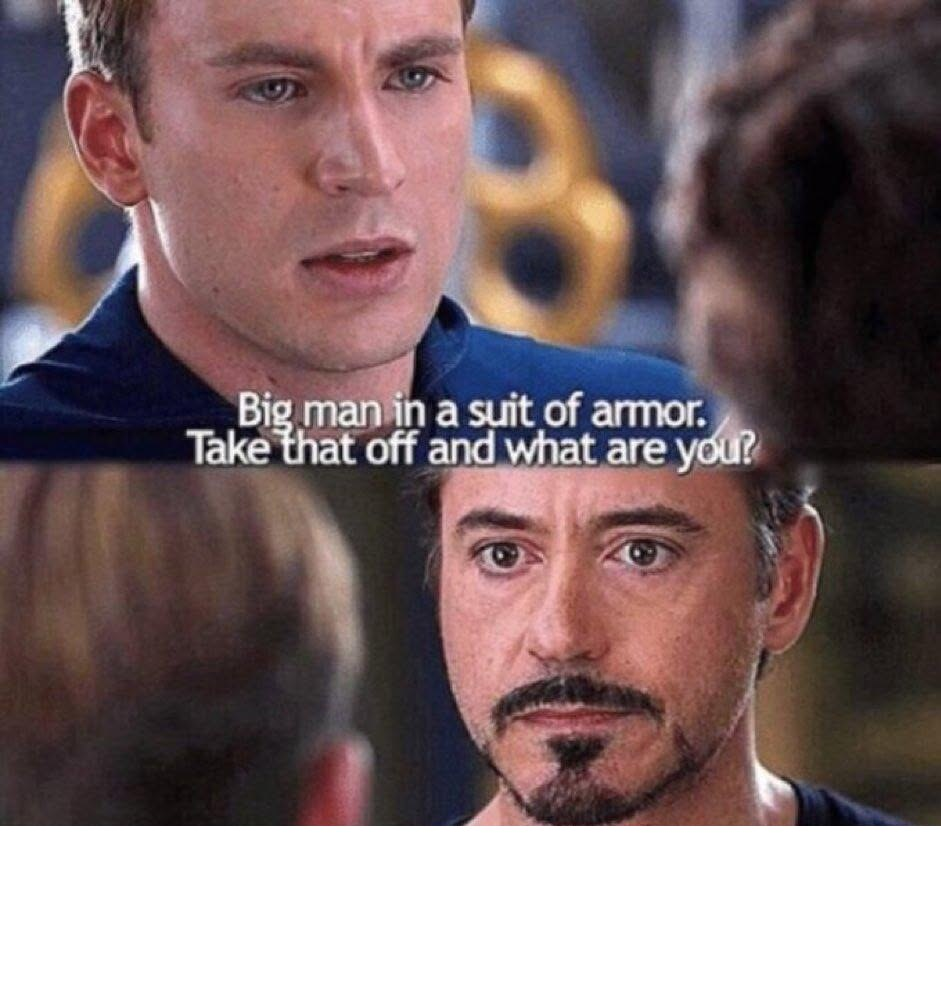
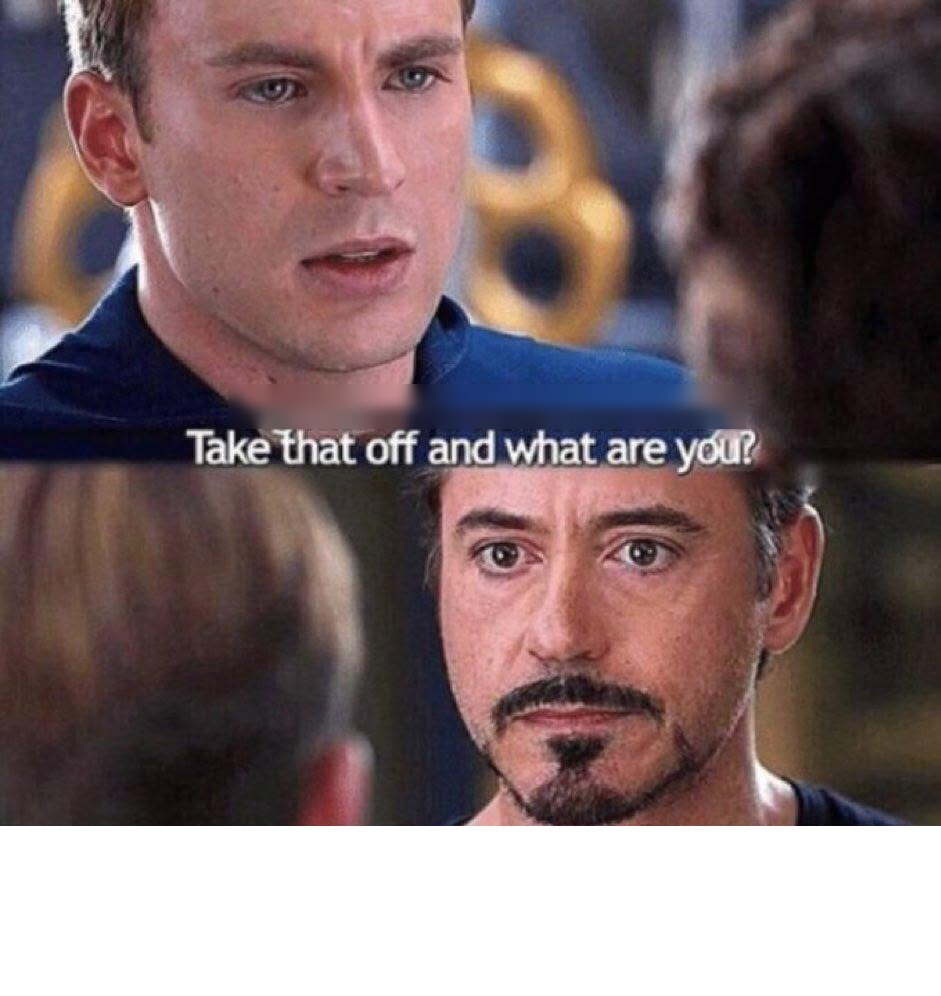
Make Cap's line in Big Man in a Suit of Armor editable
"Big man in a suit of armor." was part of the image. It is now a caption
box that starts out with that text, so it can be rewritten while the
quote stays the default.

Caption boxes can now have `default` text in config.yml:
- the renderer uses it when that line is blank (and only while the box
  is visible, for animated templates);
- the editor fills the box with it instead of showing a faded hint, so
  it is in the exported image unless edited, and the no-JS form
  pre-fills the field;
- build-templates and import-templates carry it through (the import
  spec's box tuple takes it as a 9th field).
Boxes without a default are untouched: `default` only appears in a
box's JSON and cache fingerprint when it is set, so no other template's
output or cache key changes.

Image: the subtitle's first line is filled in from the surrounding
(out-of-focus) background with OpenCV inpainting; the second line,
"Take that off and what are you?", is untouched. The answer stays line
1, so a URL with a single line still keeps Cap's quote; Cap's line is
line 2.

Changed region(s): [[0.2465, 0.3735, 0.8013, 0.4357]]

diff --git a/src/models/text.ts b/src/models/text.ts
@@ -24,6 +24,8 @@ export interface TextData {
   align: string;
   start: number;
   stop: number;
+  /** Shown when the meme leaves this line blank (e.g. a quote the user may rewrite); "" for none */
+  default?: string;
 }
 
 export class Text implements TextData {
@@ -38,6 +40,7 @@ export class Text implements TextData {
   align = "center";
   start = 0.0;
   stop = 1.0;
+  default = "";
 
   constructor(data: Partial<TextData> = {}) {
     Object.assign(this, data);
@@ -49,13 +52,18 @@ export class Text implements TextData {
 
   toJSON(): TextData {
     const { style, color, font, anchor_x, anchor_y, angle, scale_x, scale_y, align, start, stop } = this;
-    return { style, color, font, anchor_x, anchor_y, angle, scale_x, scale_y, align, start, stop };
+    const data: TextData = { style, color, font, anchor_x, anchor_y, angle, scale_x, scale_y, align, start, stop };
+    // Only boxes that have default text carry the key, so every other template's JSON and
+    // cache fingerprints stay exactly as they were
+    if (this.default) data.default = this.default;
+    return data;
   }
 
   /** Python `str(Text(...))` — used inside cache fingerprints. */
   toString(): string {
     const d = this.toJSON();
-    return `Text(style='${d.style}', color='${d.color}', font='${d.font}', anchor_x=${d.anchor_x}, anchor_y=${d.anchor_y}, angle=${d.angle}, scale_x=${d.scale_x}, scale_y=${d.scale_y}, align='${d.align}', start=${d.start}, stop=${d.stop})`;
+    const extra = d.default ? `, default='${d.default}'` : "";
+    return `Text(style='${d.style}', color='${d.color}', font='${d.font}', anchor_x=${d.anchor_x}, anchor_y=${d.anchor_y}, angle=${d.angle}, scale_x=${d.scale_x}, scale_y=${d.scale_y}, align='${d.align}', start=${d.start}, stop=${d.stop}${extra})`;
   }
 
   static getPreview(): Text {

diff --git a/src/images/layer.ts b/src/images/layer.ts
@@ -145,7 +145,7 @@ export async function getImageElements(options: ElementOptions): Promise<TextEle
     } else {
       visible = (text.start <= percentRendered && percentRendered < text.stop) || !text.stop;
     }
-    elements.push(await getImageElement(visible ? lines : [], index, text, fontName, imageSize, watermark, assets));
+    elements.push(await getImageElement(visible ? lines : [], index, text, fontName, imageSize, watermark, assets, visible));
   }
   if (isPreview) {
     const element = await getImageElement([PREVIEW_TEXT], 0, Text.getPreview(), "", imageSize, watermark, assets);
@@ -164,6 +164,7 @@ async function getImageElement(
   imageSize: Dimensions,
   watermark: string,
   assets: Fetcher,
+  useDefault = false,
 ): Promise<TextElement> {
   const point = text.getAnchor(imageSize, watermark);
   const maxTextSize = text.getSize(imageSize);
@@ -171,11 +172,14 @@ async function getImageElement(
 
   const loaded = await loadFont(fontName || text.font, assets);
 
+  // A blank line falls back to the box's default text, if it has one (only while visible)
+  const given = index < lines.length ? lines[index] : "";
+  const value = !given.trim() && useDefault && text.default ? text.default : given;
   let line: string;
-  if (index >= lines.length) {
+  if (index >= lines.length && value === given) {
     line = "";
   } else {
-    line = text.stylize(wrap(loaded, lines[index], maxTextSize, maxFontSize), { lines });
+    line = text.stylize(wrap(loaded, value, maxTextSize, maxFontSize), { lines });
   }
 
   const font = getFont(loaded, line, maxTextSize, maxFontSize);

diff --git a/scripts/import-templates.ts b/scripts/import-templates.ts
@@ -16,7 +16,8 @@ const FORCE = process.argv.includes("--force");
 const ONLY = process.argv.find((a) => a.startsWith("--only="))?.slice(7).split(",");
 const REKYM = process.argv.includes("--rekym");
 
-type Box = [number, number, number, number, string?, string?, string?, string?];
+/** [x, y, w, h, style, color, align, font, default text] */
+type Box = [number, number, number, number, string?, string?, string?, string?, string?];
 interface Spec {
   id: string;
   name: string;
@@ -105,7 +106,7 @@ function configFor(t: Spec, source: string): string {
     [0, 0.8, 1, 0.2],
   ];
   const text = boxes
-    .map(([x, y, w, h, style = "upper", color = "white", align = "center", font = "thick"]) =>
+    .map(([x, y, w, h, style = "upper", color = "white", align = "center", font = "thick", text = ""]) =>
       [
         `  - style: ${style}`,
         `    color: ${color}`,
@@ -118,6 +119,7 @@ function configFor(t: Spec, source: string): string {
         `    align: ${align}`,
         `    start: 0.0`,
         `    stop: 1.0`,
+        ...(text ? [`    default: ${yamlString(text)}`] : []),
       ].join("\n"),
     )
     .join("\n");

diff --git a/src/views/editor.ts b/src/views/editor.ts
@@ -306,13 +306,15 @@ export async function detail(app: AppContext, slug: string): Promise<Response> {
       angle: text.angle,
       uppercase: text.style === "upper",
       placeholder: template.example[index] ?? `Text ${index + 1}`,
+      value: text.default,
     })),
     fonts: fonts.map((f) => ({ id: f.id, label: f.alias ? `${f.id} (${f.alias})` : f.id, url: `/assets/fonts/${encodeURIComponent(f.filename)}` })),
   };
 
   const textInputs = Array.from({ length: lines }, (_, i) => {
     const placeholder = template.example[i] ?? "";
-    return `<label class="field"><span>Line ${i + 1}</span><input type="text" name="text[]" placeholder="${escapeHtml(placeholder)}" maxlength="200"></label>`;
+    const value = template.text[i]?.default ?? "";
+    return `<label class="field"><span>Line ${i + 1}</span><input type="text" name="text[]" placeholder="${escapeHtml(placeholder)}" value="${escapeHtml(value)}" maxlength="200"></label>`;
   }).join("\n");
 
   const tagList = [...template.keywords, ...template.tags].filter((k, i, arr) => arr.findIndex((o) => o.toLowerCase() === k.toLowerCase()) === i).slice(0, 14);

diff --git a/scripts/build-templates.ts b/scripts/build-templates.ts
@@ -64,6 +64,8 @@ function buildText(raw: Raw | undefined) {
     align: str(r.align, TEXT_DEFAULTS.align),
     start: num(r.start, TEXT_DEFAULTS.start),
     stop: num(r.stop, TEXT_DEFAULTS.stop),
+    // Text shown when the line is left blank; only set on boxes that have one
+    ...(r.default ? { default: String(r.default) } : {}),
   };
 }
 

diff --git a/assets/static/editor.js b/assets/static/editor.js
@@ -162,7 +162,7 @@
       id: uid(),
       type: "text",
       name: "Text " + (index + 1),
-      text: "",
+      text: box.value || "", // some boxes start with default text (e.g. a quote baked into the meme)
       placeholder: box.placeholder || "Your text",
       x: box.x * W,
       y: box.y * H,
